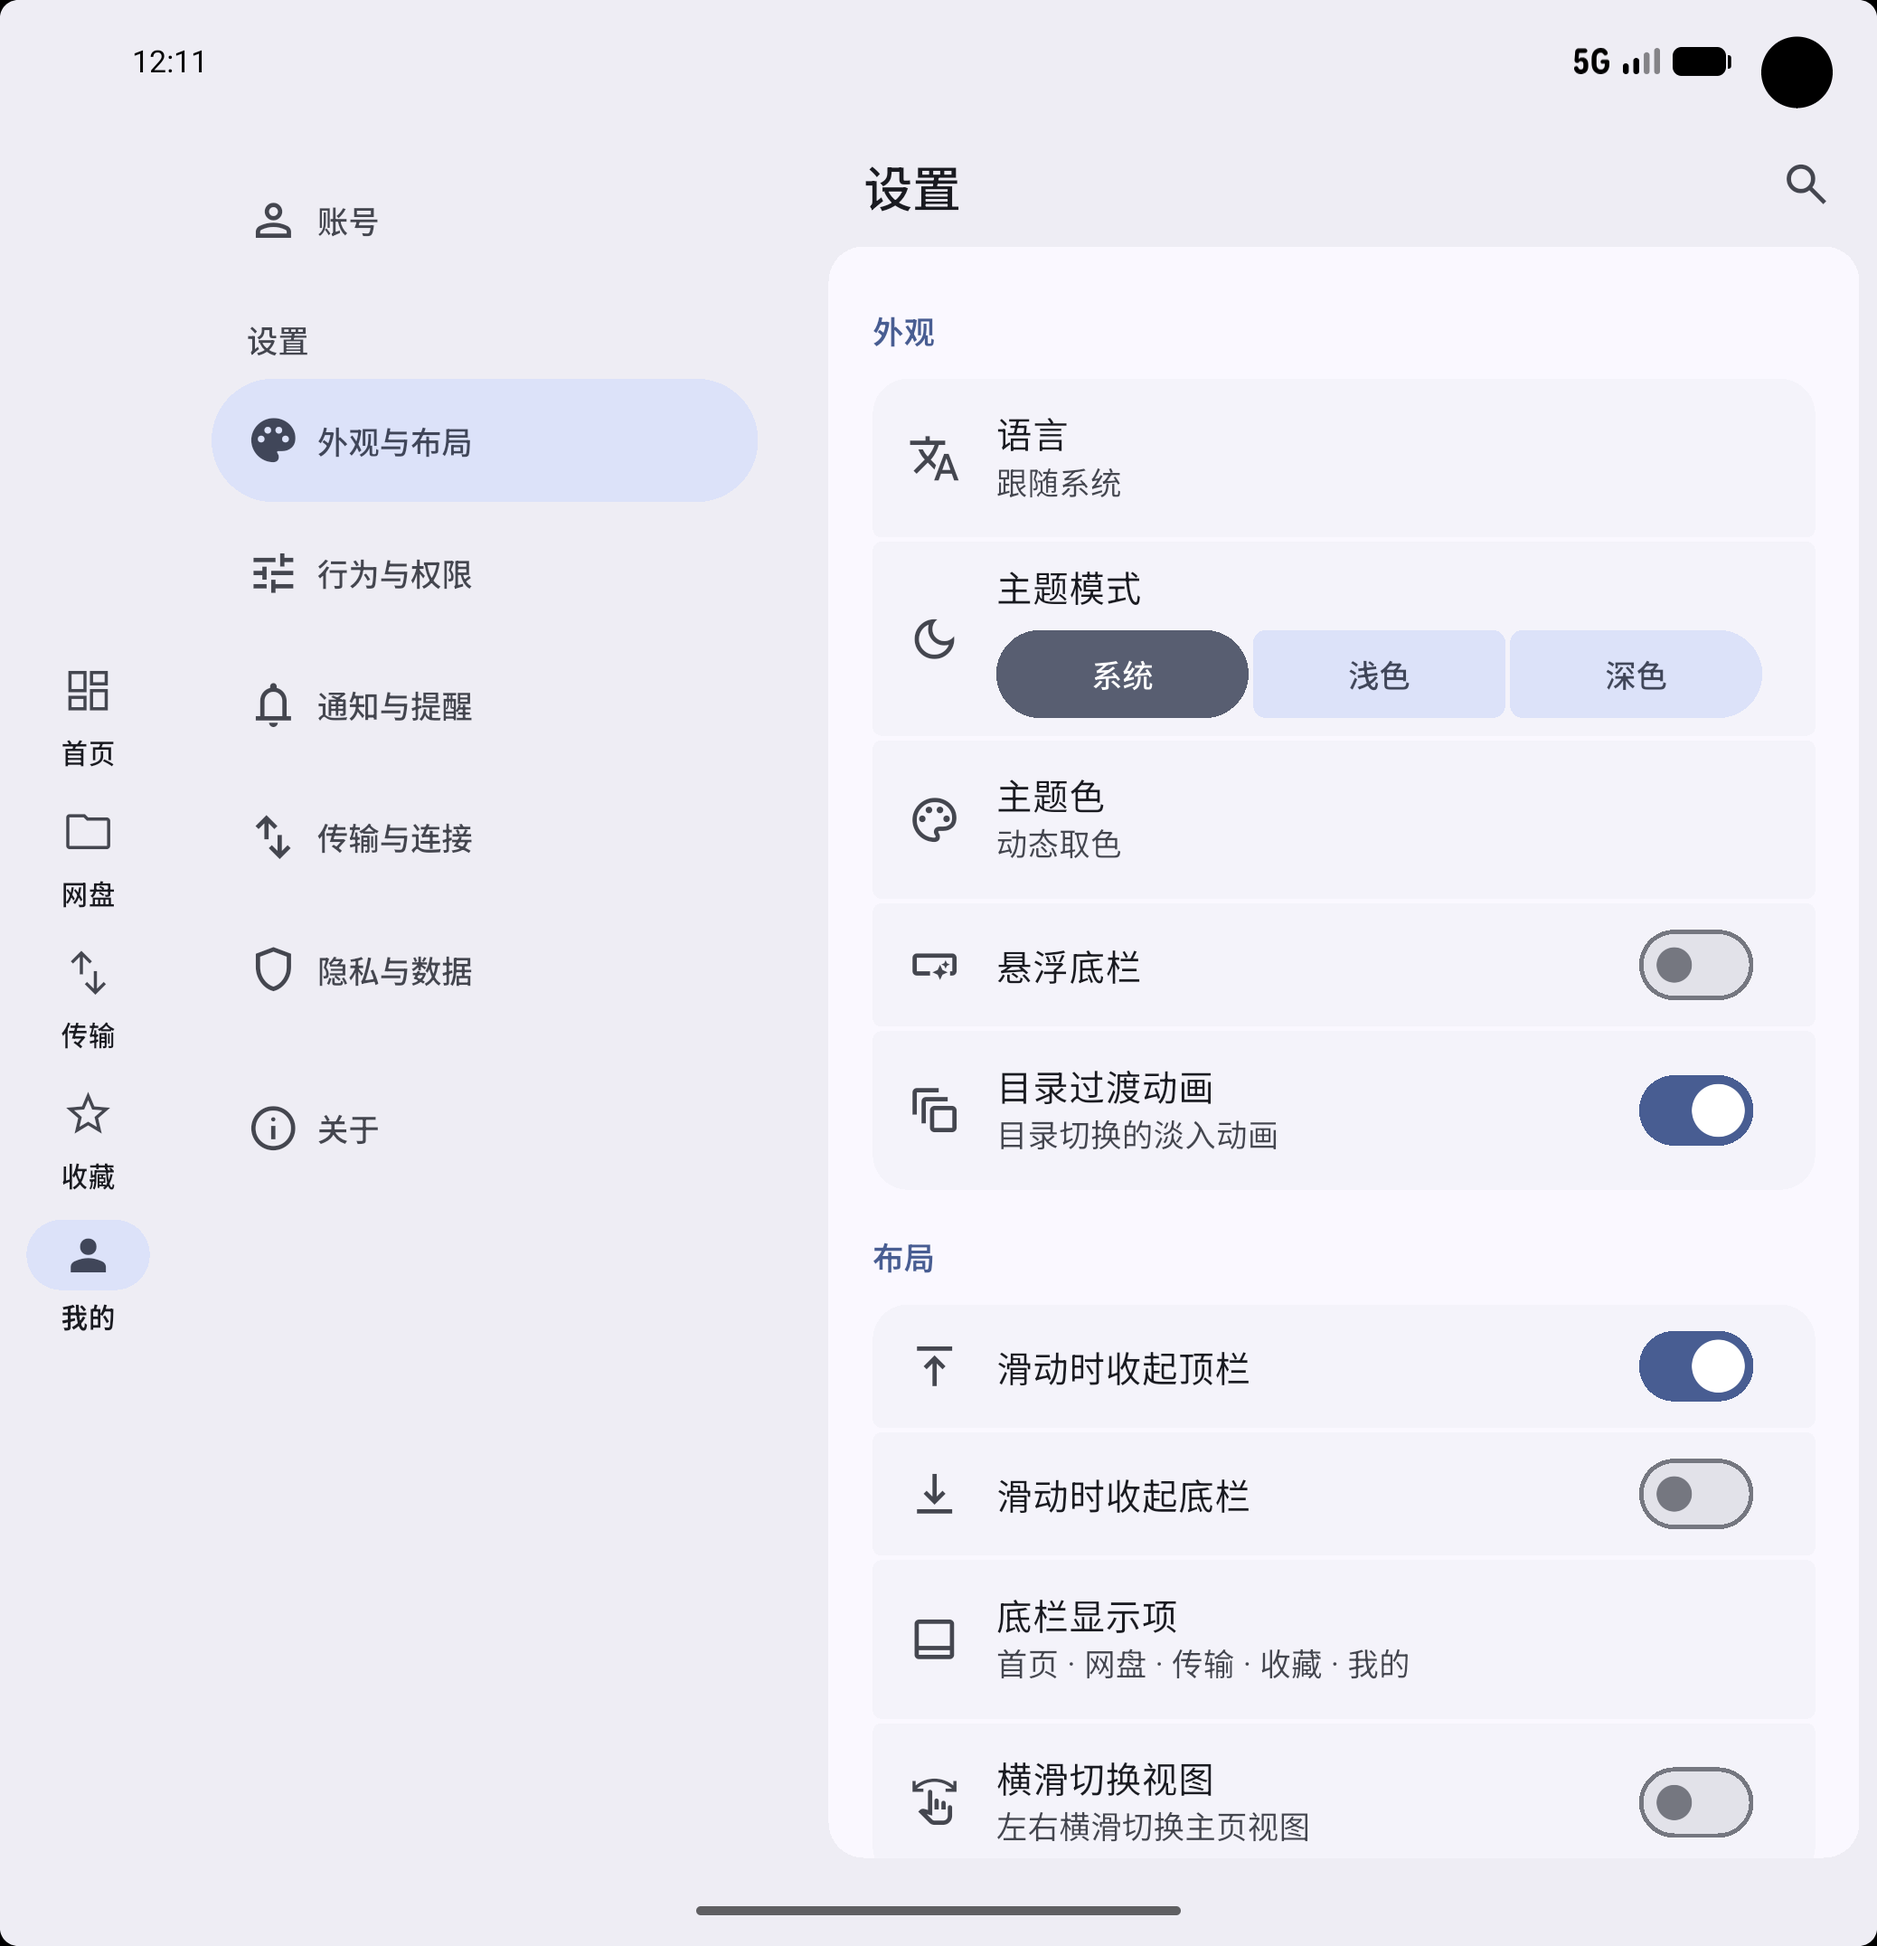
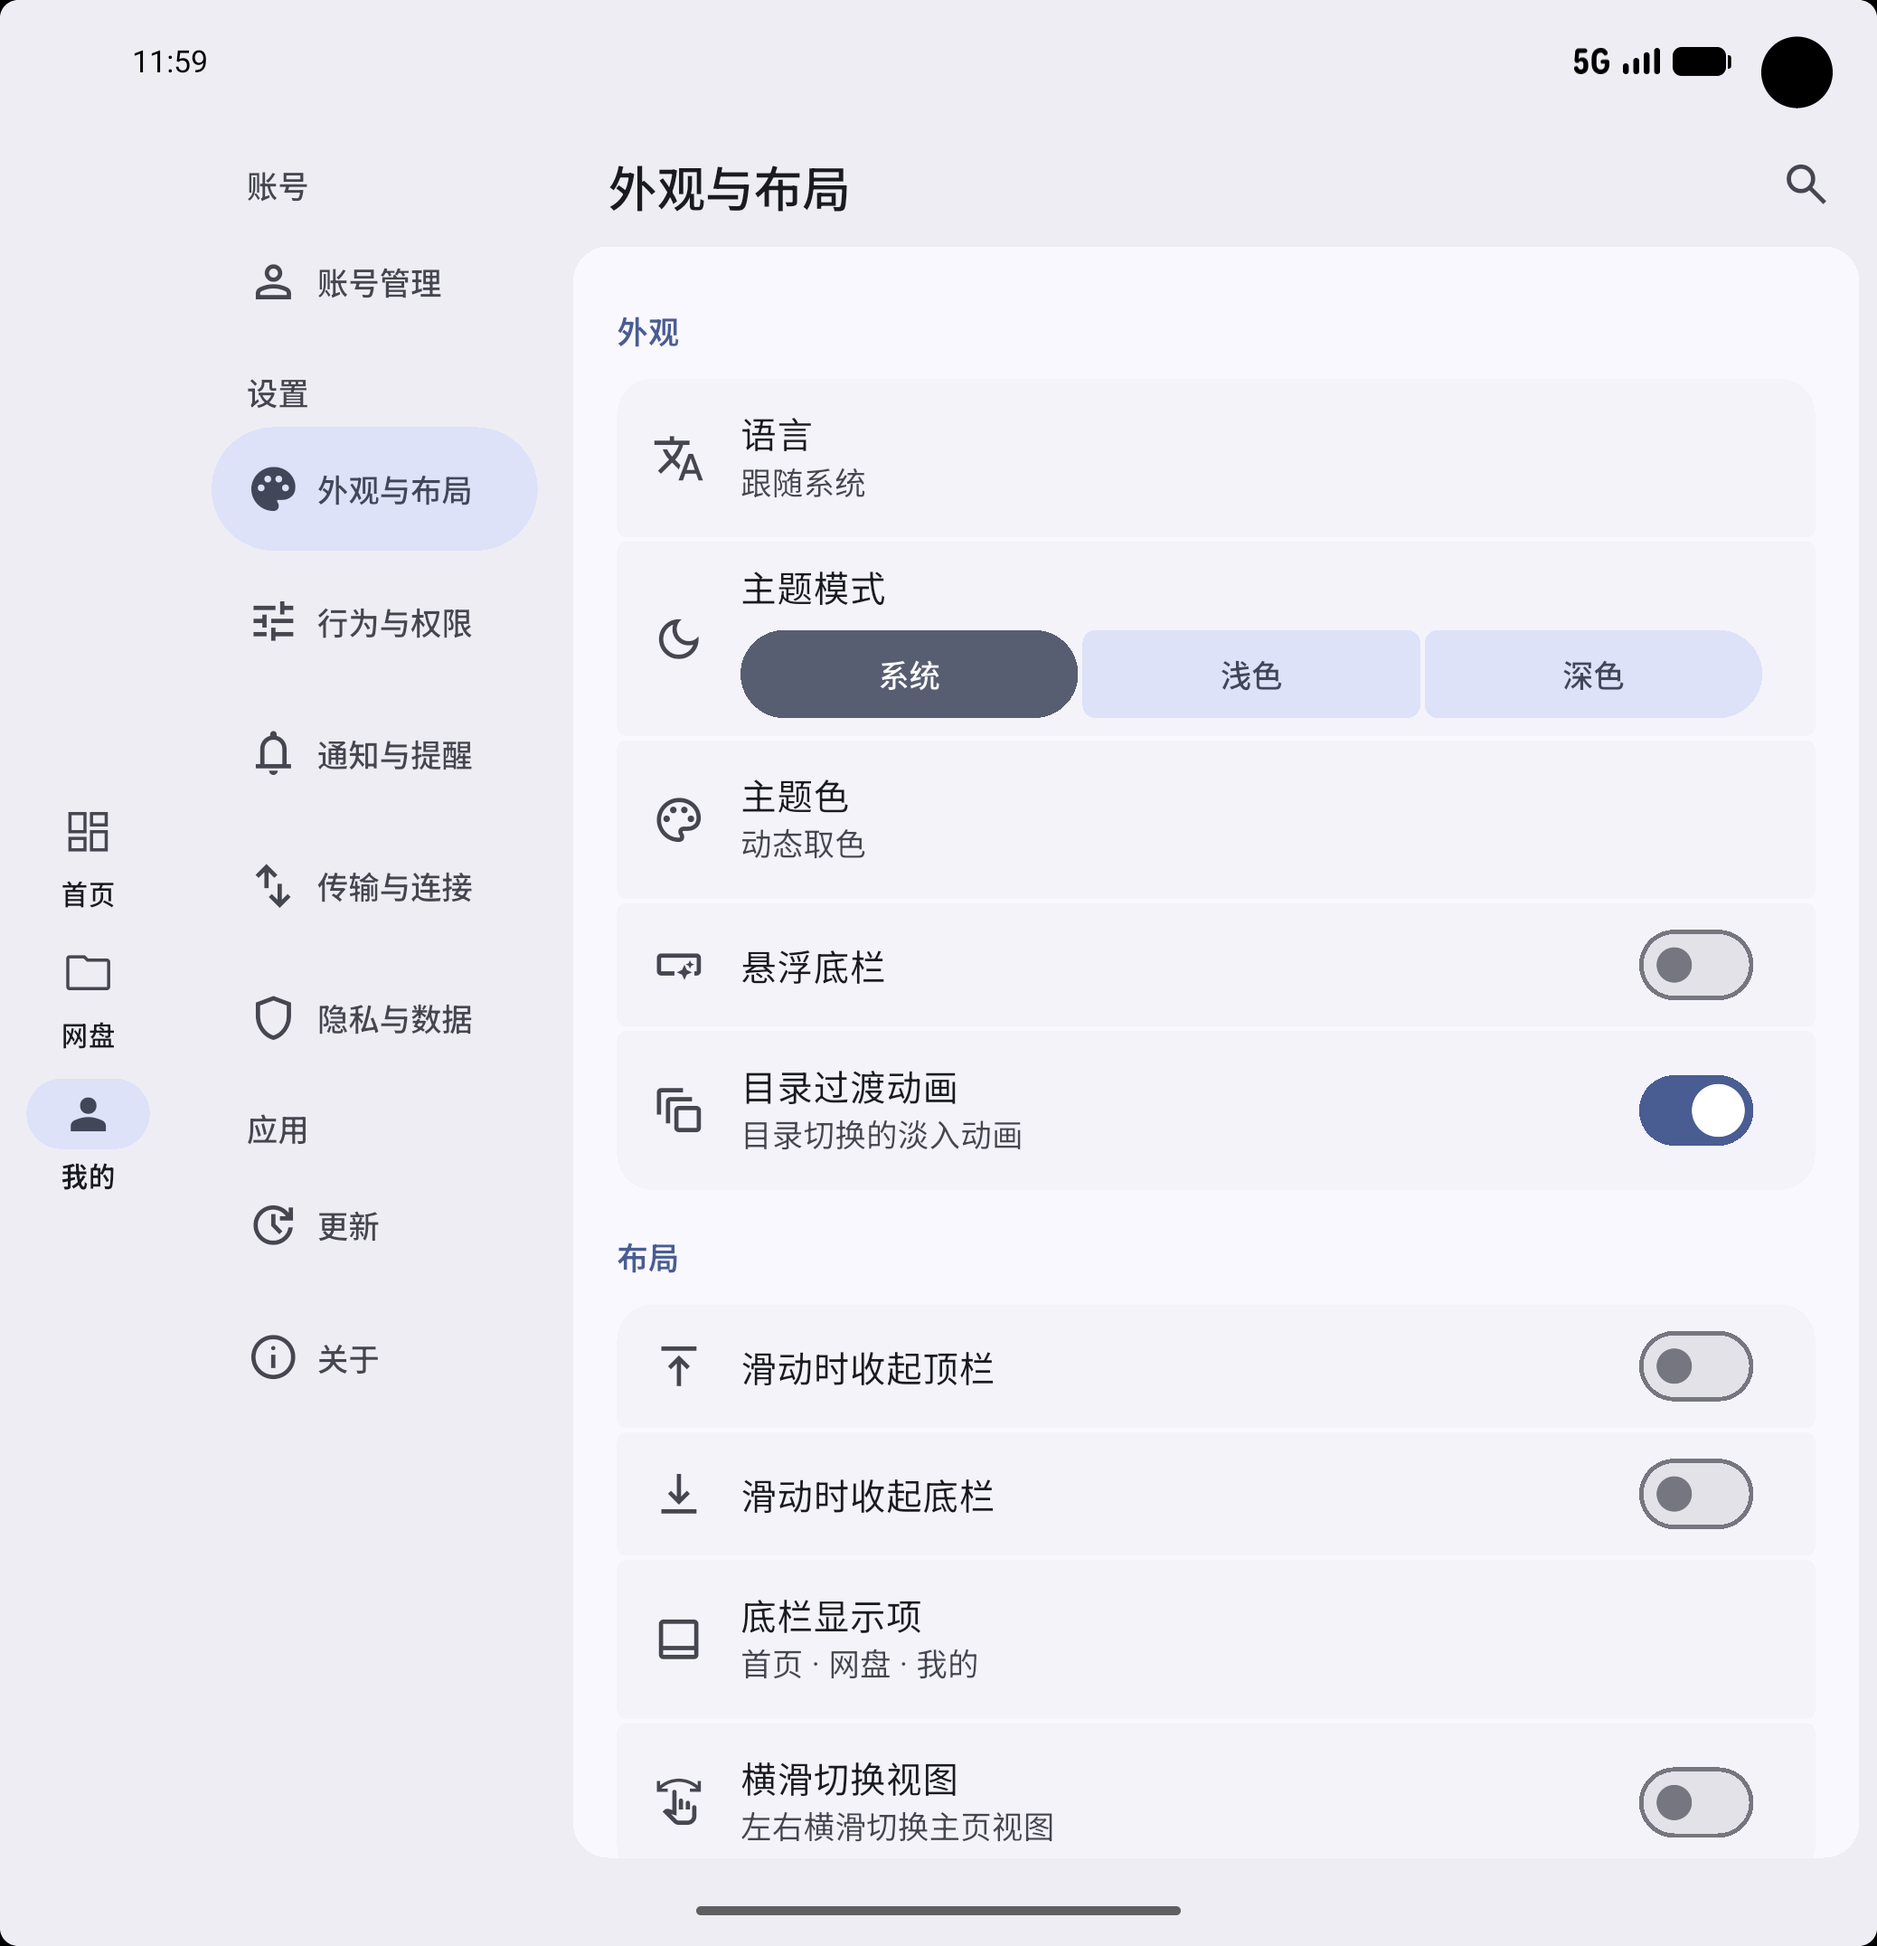
README 截图更新：折叠屏两栏设置页与更新页

diff --git a/README.md b/README.md
@@ -4,12 +4,12 @@
 
 <div align="center">
 <img src="assets/images/screenshots/screenshot_1.png" width="47%" alt="home_fold" />&nbsp;
-<img src="assets/images/screenshots/screenshot_2.png" width="47%" alt="home_fold_split_screen" />
+<img src="assets/images/screenshots/screenshot_2.png" width="47%" alt="settings_fold_two_pane" />
 <br/>
 <img src="assets/images/screenshots/screenshot_3.png" width="22.5%" alt="home" />&nbsp;
 <img src="assets/images/screenshots/screenshot_4.png" width="22.5%" alt="drive" />&nbsp;
 <img src="assets/images/screenshots/screenshot_5.png" width="22.5%" alt="transfers" />&nbsp;
-<img src="assets/images/screenshots/screenshot_6.png" width="22.5%" alt="settings" />
+<img src="assets/images/screenshots/screenshot_6.png" width="22.5%" alt="update" />
 </div>
 
 ## 功能
